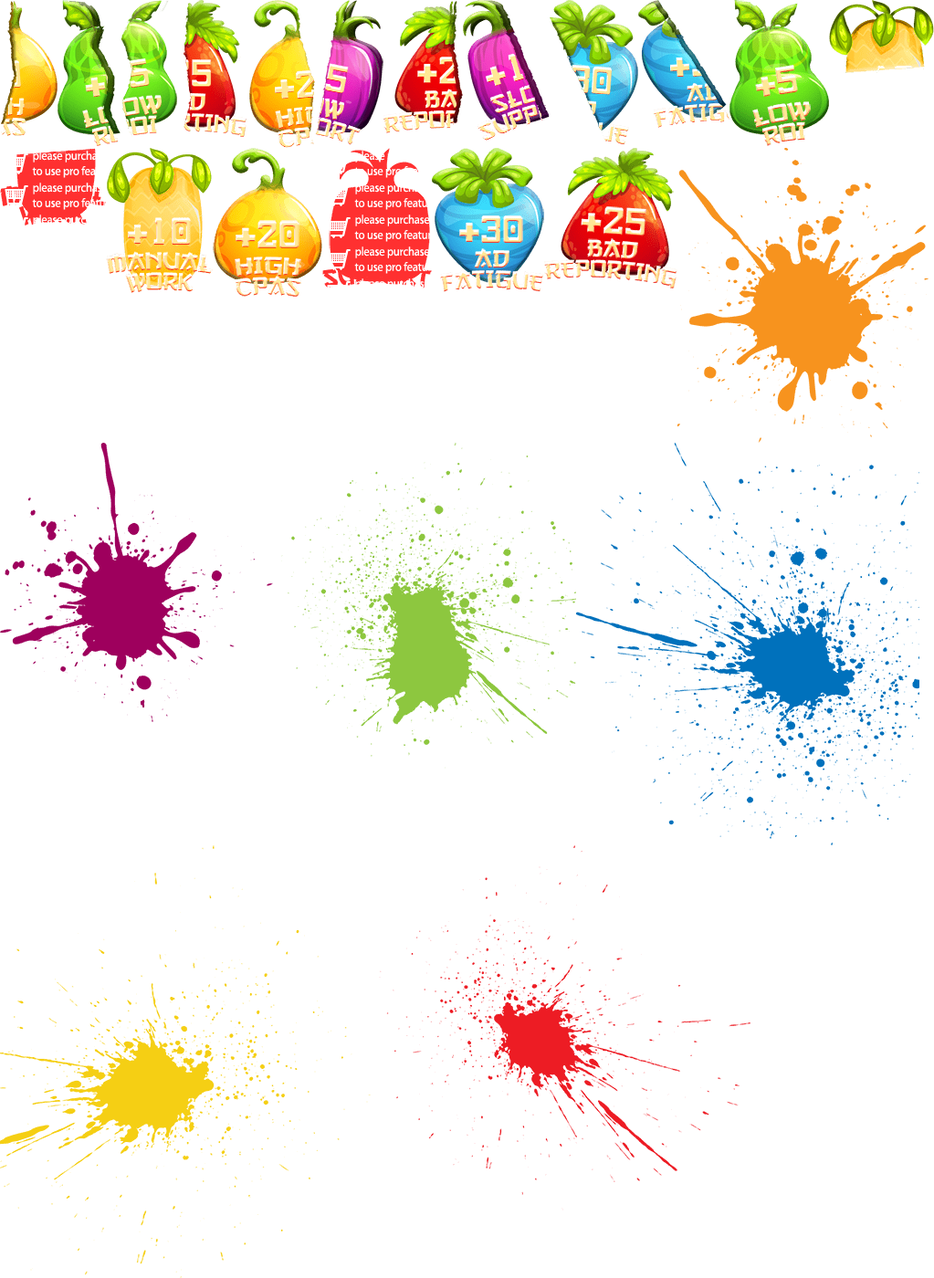
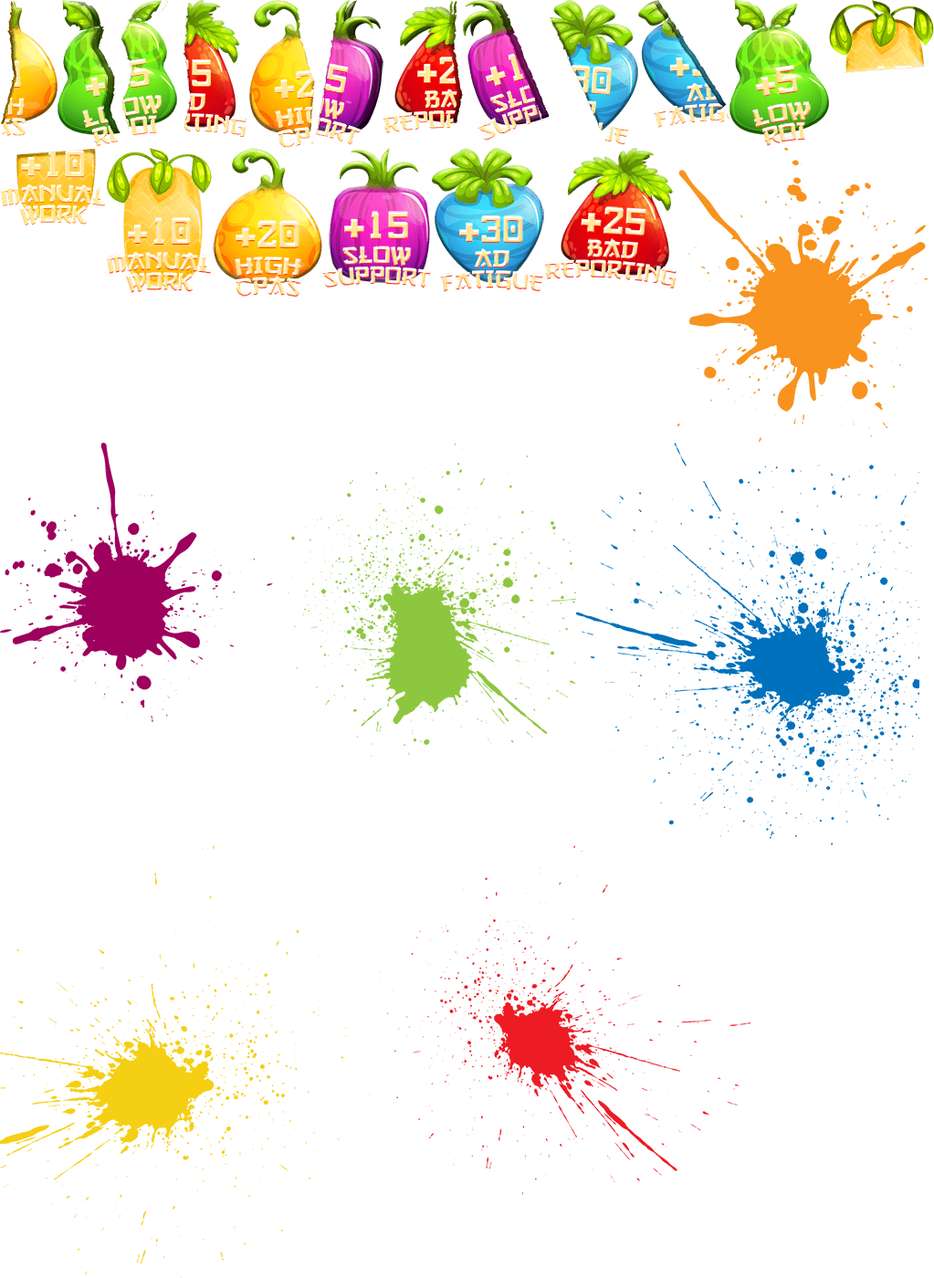
Finished core gameplay

Changed region(s): [[0.3333, 0.1229, 0.4848, 0.2457], [0.0, 0.0921, 0.1212, 0.1843]]

diff --git a/js/tweenjs.min.js b/js/tweenjs.min.js
@@ -1,0 +1,12 @@
+/*!
+* @license TweenJS
+* Visit http://createjs.com/ for documentation, updates and examples.
+*
+* Copyright (c) 2011-2015 gskinner.com, inc.
+*
+* Distributed under the terms of the MIT license.
+* http://www.opensource.org/licenses/mit-license.html
+*
+* This notice shall be included in all copies or substantial portions of the Software.
+*/
+this.createjs=this.createjs||{},createjs.extend=function(a,b){"use strict";function c(){this.constructor=a}return c.prototype=b.prototype,a.prototype=new c},this.createjs=this.createjs||{},createjs.promote=function(a,b){"use strict";var c=a.prototype,d=Object.getPrototypeOf&&Object.getPrototypeOf(c)||c.__proto__;if(d){c[(b+="_")+"constructor"]=d.constructor;for(var e in d)c.hasOwnProperty(e)&&"function"==typeof d[e]&&(c[b+e]=d[e])}return a},this.createjs=this.createjs||{},createjs.deprecate=function(a,b){"use strict";return function(){var c="Deprecated property or method '"+b+"'. See docs for info.";return console&&(console.warn?console.warn(c):console.log(c)),a&&a.apply(this,arguments)}},this.createjs=this.createjs||{},function(){"use strict";function Event(a,b,c){this.type=a,this.target=null,this.currentTarget=null,this.eventPhase=0,this.bubbles=!!b,this.cancelable=!!c,this.timeStamp=(new Date).getTime(),this.defaultPrevented=!1,this.propagationStopped=!1,this.immediatePropagationStopped=!1,this.removed=!1}var a=Event.prototype;a.preventDefault=function(){this.defaultPrevented=this.cancelable&&!0},a.stopPropagation=function(){this.propagationStopped=!0},a.stopImmediatePropagation=function(){this.immediatePropagationStopped=this.propagationStopped=!0},a.remove=function(){this.removed=!0},a.clone=function(){return new Event(this.type,this.bubbles,this.cancelable)},a.set=function(a){for(var b in a)this[b]=a[b];return this},a.toString=function(){return"[Event (type="+this.type+")]"},createjs.Event=Event}(),this.createjs=this.createjs||{},function(){"use strict";function EventDispatcher(){this._listeners=null,this._captureListeners=null}var a=EventDispatcher.prototype;EventDispatcher.initialize=function(b){b.addEventListener=a.addEventListener,b.on=a.on,b.removeEventListener=b.off=a.removeEventListener,b.removeAllEventListeners=a.removeAllEventListeners,b.hasEventListener=a.hasEventListener,b.dispatchEvent=a.dispatchEvent,b._dispatchEvent=a._dispatchEvent,b.willTrigger=a.willTrigger},a.addEventListener=function(a,b,c){var d;d=c?this._captureListeners=this._captureListeners||{}:this._listeners=this._listeners||{};var e=d[a];return e&&this.removeEventListener(a,b,c),e=d[a],e?e.push(b):d[a]=[b],b},a.on=function(a,b,c,d,e,f){return b.handleEvent&&(c=c||b,b=b.handleEvent),c=c||this,this.addEventListener(a,function(a){b.call(c,a,e),d&&a.remove()},f)},a.removeEventListener=function(a,b,c){var d=c?this._captureListeners:this._listeners;if(d){var e=d[a];if(e)for(var f=0,g=e.length;g>f;f++)if(e[f]==b){1==g?delete d[a]:e.splice(f,1);break}}},a.off=a.removeEventListener,a.removeAllEventListeners=function(a){a?(this._listeners&&delete this._listeners[a],this._captureListeners&&delete this._captureListeners[a]):this._listeners=this._captureListeners=null},a.dispatchEvent=function(a,b,c){if("string"==typeof a){var d=this._listeners;if(!(b||d&&d[a]))return!0;a=new createjs.Event(a,b,c)}else a.target&&a.clone&&(a=a.clone());try{a.target=this}catch(e){}if(a.bubbles&&this.parent){for(var f=this,g=[f];f.parent;)g.push(f=f.parent);var h,i=g.length;for(h=i-1;h>=0&&!a.propagationStopped;h--)g[h]._dispatchEvent(a,1+(0==h));for(h=1;i>h&&!a.propagationStopped;h++)g[h]._dispatchEvent(a,3)}else this._dispatchEvent(a,2);return!a.defaultPrevented},a.hasEventListener=function(a){var b=this._listeners,c=this._captureListeners;return!!(b&&b[a]||c&&c[a])},a.willTrigger=function(a){for(var b=this;b;){if(b.hasEventListener(a))return!0;b=b.parent}return!1},a.toString=function(){return"[EventDispatcher]"},a._dispatchEvent=function(a,b){var c,d,e=2>=b?this._captureListeners:this._listeners;if(a&&e&&(d=e[a.type])&&(c=d.length)){try{a.currentTarget=this}catch(f){}try{a.eventPhase=0|b}catch(f){}a.removed=!1,d=d.slice();for(var g=0;c>g&&!a.immediatePropagationStopped;g++){var h=d[g];h.handleEvent?h.handleEvent(a):h(a),a.removed&&(this.off(a.type,h,1==b),a.removed=!1)}}2===b&&this._dispatchEvent(a,2.1)},createjs.EventDispatcher=EventDispatcher}(),this.createjs=this.createjs||{},function(){"use strict";function Ticker(){throw"Ticker cannot be instantiated."}Ticker.RAF_SYNCHED="synched",Ticker.RAF="raf",Ticker.TIMEOUT="timeout",Ticker.timingMode=null,Ticker.maxDelta=0,Ticker.paused=!1,Ticker.removeEventListener=null,Ticker.removeAllEventListeners=null,Ticker.dispatchEvent=null,Ticker.hasEventListener=null,Ticker._listeners=null,createjs.EventDispatcher.initialize(Ticker),Ticker._addEventListener=Ticker.addEventListener,Ticker.addEventListener=function(){return!Ticker._inited&&Ticker.init(),Ticker._addEventListener.apply(Ticker,arguments)},Ticker._inited=!1,Ticker._startTime=0,Ticker._pausedTime=0,Ticker._ticks=0,Ticker._pausedTicks=0,Ticker._interval=50,Ticker._lastTime=0,Ticker._times=null,Ticker._tickTimes=null,Ticker._timerId=null,Ticker._raf=!0,Ticker._setInterval=function(a){Ticker._interval=a,Ticker._inited&&Ticker._setupTick()},Ticker.setInterval=createjs.deprecate(Ticker._setInterval,"Ticker.setInterval"),Ticker._getInterval=function(){return Ticker._interval},Ticker.getInterval=createjs.deprecate(Ticker._getInterval,"Ticker.getInterval"),Ticker._setFPS=function(a){Ticker._setInterval(1e3/a)},Ticker.setFPS=createjs.deprecate(Ticker._setFPS,"Ticker.setFPS"),Ticker._getFPS=function(){return 1e3/Ticker._interval},Ticker.getFPS=createjs.deprecate(Ticker._getFPS,"Ticker.getFPS");try{Object.defineProperties(Ticker,{interval:{get:Ticker._getInterval,set:Ticker._setInterval},framerate:{get:Ticker._getFPS,set:Ticker._setFPS}})}catch(a){console.log(a)}Ticker.init=function(){Ticker._inited||(Ticker._inited=!0,Ticker._times=[],Ticker._tickTimes=[],Ticker._startTime=Ticker._getTime(),Ticker._times.push(Ticker._lastTime=0),Ticker.interval=Ticker._interval)},Ticker.reset=function(){if(Ticker._raf){var a=window.cancelAnimationFrame||window.webkitCancelAnimationFrame||window.mozCancelAnimationFrame||window.oCancelAnimationFrame||window.msCancelAnimationFrame;a&&a(Ticker._timerId)}else clearTimeout(Ticker._timerId);Ticker.removeAllEventListeners("tick"),Ticker._timerId=Ticker._times=Ticker._tickTimes=null,Ticker._startTime=Ticker._lastTime=Ticker._ticks=Ticker._pausedTime=0,Ticker._inited=!1},Ticker.getMeasuredTickTime=function(a){var b=0,c=Ticker._tickTimes;if(!c||c.length<1)return-1;a=Math.min(c.length,a||0|Ticker._getFPS());for(var d=0;a>d;d++)b+=c[d];return b/a},Ticker.getMeasuredFPS=function(a){var b=Ticker._times;return!b||b.length<2?-1:(a=Math.min(b.length-1,a||0|Ticker._getFPS()),1e3/((b[0]-b[a])/a))},Ticker.getTime=function(a){return Ticker._startTime?Ticker._getTime()-(a?Ticker._pausedTime:0):-1},Ticker.getEventTime=function(a){return Ticker._startTime?(Ticker._lastTime||Ticker._startTime)-(a?Ticker._pausedTime:0):-1},Ticker.getTicks=function(a){return Ticker._ticks-(a?Ticker._pausedTicks:0)},Ticker._handleSynch=function(){Ticker._timerId=null,Ticker._setupTick(),Ticker._getTime()-Ticker._lastTime>=.97*(Ticker._interval-1)&&Ticker._tick()},Ticker._handleRAF=function(){Ticker._timerId=null,Ticker._setupTick(),Ticker._tick()},Ticker._handleTimeout=function(){Ticker._timerId=null,Ticker._setupTick(),Ticker._tick()},Ticker._setupTick=function(){if(null==Ticker._timerId){var a=Ticker.timingMode;if(a==Ticker.RAF_SYNCHED||a==Ticker.RAF){var b=window.requestAnimationFrame||window.webkitRequestAnimationFrame||window.mozRequestAnimationFrame||window.oRequestAnimationFrame||window.msRequestAnimationFrame;if(b)return Ticker._timerId=b(a==Ticker.RAF?Ticker._handleRAF:Ticker._handleSynch),void(Ticker._raf=!0)}Ticker._raf=!1,Ticker._timerId=setTimeout(Ticker._handleTimeout,Ticker._interval)}},Ticker._tick=function(){var a=Ticker.paused,b=Ticker._getTime(),c=b-Ticker._lastTime;if(Ticker._lastTime=b,Ticker._ticks++,a&&(Ticker._pausedTicks++,Ticker._pausedTime+=c),Ticker.hasEventListener("tick")){var d=new createjs.Event("tick"),e=Ticker.maxDelta;d.delta=e&&c>e?e:c,d.paused=a,d.time=b,d.runTime=b-Ticker._pausedTime,Ticker.dispatchEvent(d)}for(Ticker._tickTimes.unshift(Ticker._getTime()-b);Ticker._tickTimes.length>100;)Ticker._tickTimes.pop();for(Ticker._times.unshift(b);Ticker._times.length>100;)Ticker._times.pop()};var b=window,c=b.performance.now||b.performance.mozNow||b.performance.msNow||b.performance.oNow||b.performance.webkitNow;Ticker._getTime=function(){return(c&&c.call(b.performance)||(new Date).getTime())-Ticker._startTime},createjs.Ticker=Ticker}(),this.createjs=this.createjs||{},function(){"use strict";function AbstractTween(a){this.EventDispatcher_constructor(),this.ignoreGlobalPause=!1,this.loop=0,this.useTicks=!1,this.reversed=!1,this.bounce=!1,this.timeScale=1,this.duration=0,this.position=0,this.rawPosition=-1,this._paused=!0,this._next=null,this._prev=null,this._parent=null,this._labels=null,this._labelList=null,a&&(this.useTicks=!!a.useTicks,this.ignoreGlobalPause=!!a.ignoreGlobalPause,this.loop=a.loop===!0?-1:a.loop||0,this.reversed=!!a.reversed,this.bounce=!!a.bounce,this.timeScale=a.timeScale||1,a.onChange&&this.addEventListener("change",a.onChange),a.onComplete&&this.addEventListener("complete",a.onComplete))}var a=createjs.extend(AbstractTween,createjs.EventDispatcher);a._setPaused=function(a){return createjs.Tween._register(this,a),this},a.setPaused=createjs.deprecate(a._setPaused,"AbstractTween.setPaused"),a._getPaused=function(){return this._paused},a.getPaused=createjs.deprecate(a._getPaused,"AbstactTween.getPaused"),a._getCurrentLabel=function(a){var b=this.getLabels();null==a&&(a=this.position);for(var c=0,d=b.length;d>c&&!(a<b[c].position);c++);return 0===c?null:b[c-1].label},a.getCurrentLabel=createjs.deprecate(a._getCurrentLabel,"AbstractTween.getCurrentLabel");try{Object.defineProperties(a,{paused:{set:a._setPaused,get:a._getPaused},currentLabel:{get:a._getCurrentLabel}})}catch(b){}a.advance=function(a,b){this.setPosition(this.rawPosition+a*this.timeScale,b)},a.setPosition=function(a,b,c,d){var e=this.duration,f=this.loop,g=this.rawPosition,h=0,i=0,j=!1;if(0>a&&(a=0),0===e){if(j=!0,-1!==g)return j}else{if(h=a/e|0,i=a-h*e,j=-1!==f&&a>=f*e+e,j&&(a=(i=e)*(h=f)+e),a===g)return j;var k=!this.reversed!=!(this.bounce&&h%2);k&&(i=e-i)}this.position=i,this.rawPosition=a,this._updatePosition(c,j),j&&(this.paused=!0),d&&d(this),b||this._runActions(g,a,c,!c&&-1===g),this.dispatchEvent("change"),j&&this.dispatchEvent("complete")},a.calculatePosition=function(a){var b=this.duration,c=this.loop,d=0,e=0;if(0===b)return 0;-1!==c&&a>=c*b+b?(e=b,d=c):0>a?e=0:(d=a/b|0,e=a-d*b);var f=!this.reversed!=!(this.bounce&&d%2);return f?b-e:e},a.getLabels=function(){var a=this._labelList;if(!a){a=this._labelList=[];var b=this._labels;for(var c in b)a.push({label:c,position:b[c]});a.sort(function(a,b){return a.position-b.position})}return a},a.setLabels=function(a){this._labels=a,this._labelList=null},a.addLabel=function(a,b){this._labels||(this._labels={}),this._labels[a]=b;var c=this._labelList;if(c){for(var d=0,e=c.length;e>d&&!(b<c[d].position);d++);c.splice(d,0,{label:a,position:b})}},a.gotoAndPlay=function(a){this.paused=!1,this._goto(a)},a.gotoAndStop=function(a){this.paused=!0,this._goto(a)},a.resolve=function(a){var b=Number(a);return isNaN(b)&&(b=this._labels&&this._labels[a]),b},a.toString=function(){return"[AbstractTween]"},a.clone=function(){throw"AbstractTween can not be cloned."},a._init=function(a){a&&a.paused||(this.paused=!1),a&&null!=a.position&&this.setPosition(a.position)},a._updatePosition=function(){},a._goto=function(a){var b=this.resolve(a);null!=b&&this.setPosition(b,!1,!0)},a._runActions=function(a,b,c,d){if(this._actionHead||this.tweens){var e,f,g,h,i=this.duration,j=this.reversed,k=this.bounce,l=this.loop;if(0===i?(e=f=g=h=0,j=k=!1):(e=a/i|0,f=b/i|0,g=a-e*i,h=b-f*i),-1!==l&&(f>l&&(h=i,f=l),e>l&&(g=i,e=l)),c)return this._runActionsRange(h,h,c,d);if(e!==f||g!==h||c||d){-1===e&&(e=g=0);var m=b>=a,n=e;do{var o=!j!=!(k&&n%2),p=n===e?g:m?0:i,q=n===f?h:m?i:0;if(o&&(p=i-p,q=i-q),k&&n!==e&&p===q);else if(this._runActionsRange(p,q,c,d||n!==e&&!k))return!0;d=!1}while(m&&++n<=f||!m&&--n>=f)}}},a._runActionsRange=function(){},createjs.AbstractTween=createjs.promote(AbstractTween,"EventDispatcher")}(),this.createjs=this.createjs||{},function(){"use strict";function Tween(b,c){this.AbstractTween_constructor(c),this.pluginData=null,this.target=b,this.passive=!1,this._stepHead=new a(null,0,0,{},null,!0),this._stepTail=this._stepHead,this._stepPosition=0,this._actionHead=null,this._actionTail=null,this._plugins=null,this._pluginIds=null,this._injected=null,c&&(this.pluginData=c.pluginData,c.override&&Tween.removeTweens(b)),this.pluginData||(this.pluginData={}),this._init(c)}function a(a,b,c,d,e,f){this.next=null,this.prev=a,this.t=b,this.d=c,this.props=d,this.ease=e,this.passive=f,this.index=a?a.index+1:0}function b(a,b,c,d,e){this.next=null,this.prev=a,this.t=b,this.d=0,this.scope=c,this.funct=d,this.params=e}var c=createjs.extend(Tween,createjs.AbstractTween);Tween.IGNORE={},Tween._tweens=[],Tween._plugins=null,Tween._tweenHead=null,Tween._tweenTail=null,Tween.get=function(a,b){return new Tween(a,b)},Tween.tick=function(a,b){for(var c=Tween._tweenHead;c;){var d=c._next;b&&!c.ignoreGlobalPause||c._paused||c.advance(c.useTicks?1:a),c=d}},Tween.handleEvent=function(a){"tick"===a.type&&this.tick(a.delta,a.paused)},Tween.removeTweens=function(a){if(a.tweenjs_count){for(var b=Tween._tweenHead;b;){var c=b._next;b.target===a&&Tween._register(b,!0),b=c}a.tweenjs_count=0}},Tween.removeAllTweens=function(){for(var a=Tween._tweenHead;a;){var b=a._next;a._paused=!0,a.target&&(a.target.tweenjs_count=0),a._next=a._prev=null,a=b}Tween._tweenHead=Tween._tweenTail=null},Tween.hasActiveTweens=function(a){return a?!!a.tweenjs_count:!!Tween._tweenHead},Tween._installPlugin=function(a){for(var b=a.priority=a.priority||0,c=Tween._plugins=Tween._plugins||[],d=0,e=c.length;e>d&&!(b<c[d].priority);d++);c.splice(d,0,a)},Tween._register=function(a,b){var c=a.target;if(!b&&a._paused){c&&(c.tweenjs_count=c.tweenjs_count?c.tweenjs_count+1:1);var d=Tween._tweenTail;d?(Tween._tweenTail=d._next=a,a._prev=d):Tween._tweenHead=Tween._tweenTail=a,!Tween._inited&&createjs.Ticker&&(createjs.Ticker.addEventListener("tick",Tween),Tween._inited=!0)}else if(b&&!a._paused){c&&c.tweenjs_count--;var e=a._next,f=a._prev;e?e._prev=f:Tween._tweenTail=f,f?f._next=e:Tween._tweenHead=e,a._next=a._prev=null}a._paused=b},c.wait=function(a,b){return a>0&&this._addStep(+a,this._stepTail.props,null,b),this},c.to=function(a,b,c){(null==b||0>b)&&(b=0);var d=this._addStep(+b,null,c);return this._appendProps(a,d),this},c.label=function(a){return this.addLabel(a,this.duration),this},c.call=function(a,b,c){return this._addAction(c||this.target,a,b||[this])},c.set=function(a,b){return this._addAction(b||this.target,this._set,[a])},c.play=function(a){return this._addAction(a||this,this._set,[{paused:!1}])},c.pause=function(a){return this._addAction(a||this,this._set,[{paused:!0}])},c.w=c.wait,c.t=c.to,c.c=c.call,c.s=c.set,c.toString=function(){return"[Tween]"},c.clone=function(){throw"Tween can not be cloned."},c._addPlugin=function(a){var b=this._pluginIds||(this._pluginIds={}),c=a.ID;if(c&&!b[c]){b[c]=!0;for(var d=this._plugins||(this._plugins=[]),e=a.priority||0,f=0,g=d.length;g>f;f++)if(e<d[f].priority)return void d.splice(f,0,a);d.push(a)}},c._updatePosition=function(a,b){var c=this._stepHead.next,d=this.position,e=this.duration;if(this.target&&c){for(var f=c.next;f&&f.t<=d;)c=c.next,f=c.next;var g=b?0===e?1:d/e:(d-c.t)/c.d;this._updateTargetProps(c,g,b)}this._stepPosition=c?d-c.t:0},c._updateTargetProps=function(a,b,c){if(!(this.passive=!!a.passive)){var d,e,f,g,h=a.prev.props,i=a.props;(g=a.ease)&&(b=g(b,0,1,1));var j=this._plugins;a:for(var k in h){if(e=h[k],f=i[k],d=e!==f&&"number"==typeof e?e+(f-e)*b:b>=1?f:e,j)for(var l=0,m=j.length;m>l;l++){var n=j[l].change(this,a,k,d,b,c);if(n===Tween.IGNORE)continue a;void 0!==n&&(d=n)}this.target[k]=d}}},c._runActionsRange=function(a,b,c,d){var e=a>b,f=e?this._actionTail:this._actionHead,g=b,h=a;e&&(g=a,h=b);for(var i=this.position;f;){var j=f.t;if((j===b||j>h&&g>j||d&&j===a)&&(f.funct.apply(f.scope,f.params),i!==this.position))return!0;f=e?f.prev:f.next}},c._appendProps=function(a,b,c){var d,e,f,g,h,i=this._stepHead.props,j=this.target,k=Tween._plugins,l=b.prev,m=l.props,n=b.props||(b.props=this._cloneProps(m)),o={};for(d in a)if(a.hasOwnProperty(d)&&(o[d]=n[d]=a[d],void 0===i[d])){if(g=void 0,k)for(e=k.length-1;e>=0;e--)if(f=k[e].init(this,d,g),void 0!==f&&(g=f),g===Tween.IGNORE){delete n[d],delete o[d];break}g!==Tween.IGNORE&&(void 0===g&&(g=j[d]),m[d]=void 0===g?null:g)}for(d in o){f=a[d];for(var p,q=l;(p=q)&&(q=p.prev);)if(q.props!==p.props){if(void 0!==q.props[d])break;q.props[d]=m[d]}}if(c!==!1&&(k=this._plugins))for(e=k.length-1;e>=0;e--)k[e].step(this,b,o);(h=this._injected)&&(this._injected=null,this._appendProps(h,b,!1))},c._injectProp=function(a,b){var c=this._injected||(this._injected={});c[a]=b},c._addStep=function(b,c,d,e){var f=new a(this._stepTail,this.duration,b,c,d,e||!1);return this.duration+=b,this._stepTail=this._stepTail.next=f},c._addAction=function(a,c,d){var e=new b(this._actionTail,this.duration,a,c,d);return this._actionTail?this._actionTail.next=e:this._actionHead=e,this._actionTail=e,this},c._set=function(a){for(var b in a)this[b]=a[b]},c._cloneProps=function(a){var b={};for(var c in a)b[c]=a[c];return b},createjs.Tween=createjs.promote(Tween,"AbstractTween")}(),this.createjs=this.createjs||{},function(){"use strict";function Timeline(a){var b,c;a instanceof Array||null==a&&arguments.length>1?(b=a,c=arguments[1],a=arguments[2]):a&&(b=a.tweens,c=a.labels),this.AbstractTween_constructor(a),this.tweens=[],b&&this.addTween.apply(this,b),this.setLabels(c),this._init(a)}var a=createjs.extend(Timeline,createjs.AbstractTween);a.addTween=function(a){a._parent&&a._parent.removeTween(a);var b=arguments.length;if(b>1){for(var c=0;b>c;c++)this.addTween(arguments[c]);return arguments[b-1]}if(0===b)return null;this.tweens.push(a),a._parent=this,a.paused=!0;var d=a.duration;return a.loop>0&&(d*=a.loop+1),d>this.duration&&(this.duration=d),this.rawPosition>=0&&a.setPosition(this.rawPosition),a},a.removeTween=function(a){var b=arguments.length;if(b>1){for(var c=!0,d=0;b>d;d++)c=c&&this.removeTween(arguments[d]);return c}if(0===b)return!0;for(var e=this.tweens,d=e.length;d--;)if(e[d]===a)return e.splice(d,1),a._parent=null,a.duration>=this.duration&&this.updateDuration(),!0;return!1},a.updateDuration=function(){this.duration=0;for(var a=0,b=this.tweens.length;b>a;a++){var c=this.tweens[a],d=c.duration;c.loop>0&&(d*=c.loop+1),d>this.duration&&(this.duration=d)}},a.toString=function(){return"[Timeline]"},a.clone=function(){throw"Timeline can not be cloned."},a._updatePosition=function(a){for(var b=this.position,c=0,d=this.tweens.length;d>c;c++)this.tweens[c].setPosition(b,!0,a)},a._runActionsRange=function(a,b,c,d){for(var e=this.position,f=0,g=this.tweens.length;g>f;f++)if(this.tweens[f]._runActions(a,b,c,d),e!==this.position)return!0},createjs.Timeline=createjs.promote(Timeline,"AbstractTween")}(),this.createjs=this.createjs||{},function(){"use strict";function Ease(){throw"Ease cannot be instantiated."}Ease.linear=function(a){return a},Ease.none=Ease.linear,Ease.get=function(a){return-1>a?a=-1:a>1&&(a=1),function(b){return 0==a?b:0>a?b*(b*-a+1+a):b*((2-b)*a+(1-a))}},Ease.getPowIn=function(a){return function(b){return Math.pow(b,a)}},Ease.getPowOut=function(a){return function(b){return 1-Math.pow(1-b,a)}},Ease.getPowInOut=function(a){return function(b){return(b*=2)<1?.5*Math.pow(b,a):1-.5*Math.abs(Math.pow(2-b,a))}},Ease.quadIn=Ease.getPowIn(2),Ease.quadOut=Ease.getPowOut(2),Ease.quadInOut=Ease.getPowInOut(2),Ease.cubicIn=Ease.getPowIn(3),Ease.cubicOut=Ease.getPowOut(3),Ease.cubicInOut=Ease.getPowInOut(3),Ease.quartIn=Ease.getPowIn(4),Ease.quartOut=Ease.getPowOut(4),Ease.quartInOut=Ease.getPowInOut(4),Ease.quintIn=Ease.getPowIn(5),Ease.quintOut=Ease.getPowOut(5),Ease.quintInOut=Ease.getPowInOut(5),Ease.sineIn=function(a){return 1-Math.cos(a*Math.PI/2)},Ease.sineOut=function(a){return Math.sin(a*Math.PI/2)},Ease.sineInOut=function(a){return-.5*(Math.cos(Math.PI*a)-1)},Ease.getBackIn=function(a){return function(b){return b*b*((a+1)*b-a)}},Ease.backIn=Ease.getBackIn(1.7),Ease.getBackOut=function(a){return function(b){return--b*b*((a+1)*b+a)+1}},Ease.backOut=Ease.getBackOut(1.7),Ease.getBackInOut=function(a){return a*=1.525,function(b){return(b*=2)<1?.5*b*b*((a+1)*b-a):.5*((b-=2)*b*((a+1)*b+a)+2)}},Ease.backInOut=Ease.getBackInOut(1.7),Ease.circIn=function(a){return-(Math.sqrt(1-a*a)-1)},Ease.circOut=function(a){return Math.sqrt(1- --a*a)},Ease.circInOut=function(a){return(a*=2)<1?-.5*(Math.sqrt(1-a*a)-1):.5*(Math.sqrt(1-(a-=2)*a)+1)},Ease.bounceIn=function(a){return 1-Ease.bounceOut(1-a)},Ease.bounceOut=function(a){return 1/2.75>a?7.5625*a*a:2/2.75>a?7.5625*(a-=1.5/2.75)*a+.75:2.5/2.75>a?7.5625*(a-=2.25/2.75)*a+.9375:7.5625*(a-=2.625/2.75)*a+.984375},Ease.bounceInOut=function(a){return.5>a?.5*Ease.bounceIn(2*a):.5*Ease.bounceOut(2*a-1)+.5},Ease.getElasticIn=function(a,b){var c=2*Math.PI;return function(d){if(0==d||1==d)return d;var e=b/c*Math.asin(1/a);return-(a*Math.pow(2,10*(d-=1))*Math.sin((d-e)*c/b))}},Ease.elasticIn=Ease.getElasticIn(1,.3),Ease.getElasticOut=function(a,b){var c=2*Math.PI;return function(d){if(0==d||1==d)return d;var e=b/c*Math.asin(1/a);return a*Math.pow(2,-10*d)*Math.sin((d-e)*c/b)+1}},Ease.elasticOut=Ease.getElasticOut(1,.3),Ease.getElasticInOut=function(a,b){var c=2*Math.PI;return function(d){var e=b/c*Math.asin(1/a);return(d*=2)<1?-.5*a*Math.pow(2,10*(d-=1))*Math.sin((d-e)*c/b):a*Math.pow(2,-10*(d-=1))*Math.sin((d-e)*c/b)*.5+1}},Ease.elasticInOut=Ease.getElasticInOut(1,.3*1.5),createjs.Ease=Ease}(),this.createjs=this.createjs||{},function(){"use strict";function MotionGuidePlugin(){throw"MotionGuidePlugin cannot be instantiated."}var a=MotionGuidePlugin;a.priority=0,a.ID="MotionGuide",a.install=function(){return createjs.Tween._installPlugin(MotionGuidePlugin),createjs.Tween.IGNORE},a.init=function(b,c){"guide"==c&&b._addPlugin(a)},a.step=function(b,c,d){for(var e in d)if("guide"===e){var f=c.props.guide,g=a._solveGuideData(d.guide,f);f.valid=!g;var h=f.endData;if(b._injectProp("x",h.x),b._injectProp("y",h.y),g||!f.orient)break;var i=void 0===c.prev.props.rotation?b.target.rotation||0:c.prev.props.rotation;if(f.startOffsetRot=i-f.startData.rotation,"fixed"==f.orient)f.endAbsRot=h.rotation+f.startOffsetRot,f.deltaRotation=0;else{var j=void 0===d.rotation?b.target.rotation||0:d.rotation,k=j-f.endData.rotation-f.startOffsetRot,l=k%360;switch(f.endAbsRot=j,f.orient){case"auto":f.deltaRotation=k;break;case"cw":f.deltaRotation=(l+360)%360+360*Math.abs(k/360|0);break;case"ccw":f.deltaRotation=(l-360)%360+-360*Math.abs(k/360|0)}}b._injectProp("rotation",f.endAbsRot)}},a.change=function(b,c,d,e,f){var g=c.props.guide;if(g&&c.props!==c.prev.props&&g!==c.prev.props.guide)return"guide"===d&&!g.valid||"x"==d||"y"==d||"rotation"===d&&g.orient?createjs.Tween.IGNORE:void a._ratioToPositionData(f,g,b.target)},a.debug=function(b,c,d){b=b.guide||b;var e=a._findPathProblems(b);if(e&&console.error("MotionGuidePlugin Error found: \n"+e),!c)return e;var f,g=b.path,h=g.length,i=3,j=9;for(c.save(),c.lineCap="round",c.lineJoin="miter",c.beginPath(),c.moveTo(g[0],g[1]),f=2;h>f;f+=4)c.quadraticCurveTo(g[f],g[f+1],g[f+2],g[f+3]);c.strokeStyle="black",c.lineWidth=1.5*i,c.stroke(),c.strokeStyle="white",c.lineWidth=i,c.stroke(),c.closePath();var k=d.length;if(d&&k){var l={},m={};a._solveGuideData(b,l);for(var f=0;k>f;f++)l.orient="fixed",a._ratioToPositionData(d[f],l,m),c.beginPath(),c.moveTo(m.x,m.y),c.lineTo(m.x+Math.cos(.0174533*m.rotation)*j,m.y+Math.sin(.0174533*m.rotation)*j),c.strokeStyle="black",c.lineWidth=1.5*i,c.stroke(),c.strokeStyle="red",c.lineWidth=i,c.stroke(),c.closePath()}return c.restore(),e},a._solveGuideData=function(b,c){var d=void 0;if(d=a.debug(b))return d;{var e=c.path=b.path;c.orient=b.orient}c.subLines=[],c.totalLength=0,c.startOffsetRot=0,c.deltaRotation=0,c.startData={ratio:0},c.endData={ratio:1},c.animSpan=1;var f,g,h,i,j,k,l,m,n,o=e.length,p=10,q={};for(f=e[0],g=e[1],l=2;o>l;l+=4){h=e[l],i=e[l+1],j=e[l+2],k=e[l+3];var r={weightings:[],estLength:0,portion:0},s=f,t=g;for(m=1;p>=m;m++){a._getParamsForCurve(f,g,h,i,j,k,m/p,!1,q);var u=q.x-s,v=q.y-t;n=Math.sqrt(u*u+v*v),r.weightings.push(n),r.estLength+=n,s=q.x,t=q.y}for(c.totalLength+=r.estLength,m=0;p>m;m++)n=r.estLength,r.weightings[m]=r.weightings[m]/n;c.subLines.push(r),f=j,g=k}n=c.totalLength;var w=c.subLines.length;for(l=0;w>l;l++)c.subLines[l].portion=c.subLines[l].estLength/n;var x=isNaN(b.start)?0:b.start,y=isNaN(b.end)?1:b.end;a._ratioToPositionData(x,c,c.startData),a._ratioToPositionData(y,c,c.endData),c.startData.ratio=x,c.endData.ratio=y,c.animSpan=c.endData.ratio-c.startData.ratio},a._ratioToPositionData=function(b,c,d){var e,f,g,h,i,j=c.subLines,k=0,l=10,m=b*c.animSpan+c.startData.ratio;for(f=j.length,e=0;f>e;e++){if(h=j[e].portion,k+h>=m){i=e;break}k+=h}void 0===i&&(i=f-1,k-=h);var n=j[i].weightings,o=h;for(f=n.length,e=0;f>e&&(h=n[e]*o,!(k+h>=m));e++)k+=h;i=4*i+2,g=e/l+(m-k)/h*(1/l);var p=c.path;return a._getParamsForCurve(p[i-2],p[i-1],p[i],p[i+1],p[i+2],p[i+3],g,c.orient,d),c.orient&&(b>=.99999&&1.00001>=b&&void 0!==c.endAbsRot?d.rotation=c.endAbsRot:d.rotation+=c.startOffsetRot+b*c.deltaRotation),d},a._getParamsForCurve=function(a,b,c,d,e,f,g,h,i){var j=1-g;i.x=j*j*a+2*j*g*c+g*g*e,i.y=j*j*b+2*j*g*d+g*g*f,h&&(i.rotation=57.2957795*Math.atan2((d-b)*j+(f-d)*g,(c-a)*j+(e-c)*g))},a._findPathProblems=function(a){var b=a.path,c=b&&b.length||0;if(6>c||(c-2)%4){var d="	Cannot parse 'path' array due to invalid number of entries in path. ";return d+="There should be an odd number of points, at least 3 points, and 2 entries per point (x & y). ",d+="See 'CanvasRenderingContext2D.quadraticCurveTo' for details as 'path' models a quadratic bezier.\n\n",d+="Only [ "+c+" ] values found. Expected: "+Math.max(4*Math.ceil((c-2)/4)+2,6)}for(var e=0;c>e;e++)if(isNaN(b[e]))return"All data in path array must be numeric";var f=a.start;if(isNaN(f)&&void 0!==f)return"'start' out of bounds. Expected 0 to 1, got: "+f;var g=a.end;if(isNaN(g)&&void 0!==g)return"'end' out of bounds. Expected 0 to 1, got: "+g;var h=a.orient;return h&&"fixed"!=h&&"auto"!=h&&"cw"!=h&&"ccw"!=h?'Invalid orientation value. Expected ["fixed", "auto", "cw", "ccw", undefined], got: '+h:void 0},createjs.MotionGuidePlugin=MotionGuidePlugin}(),this.createjs=this.createjs||{},function(){"use strict";var a=createjs.TweenJS=createjs.TweenJS||{};a.version="1.0.0",a.buildDate="Thu, 14 Sep 2017 19:47:47 GMT"}();

diff --git a/js/gameScene.js b/js/gameScene.js
@@ -1,0 +1,110 @@
+
+class GameScene
+{
+    constructor()
+    {
+        this.gameStage = new PIXI.Container();
+        this.gameStage.interactive = true;
+        this.gameStage.hitArea = app.screen;
+        GameContainer.addChild(this.gameStage);
+
+        this.minSpawnInterval = 2;
+        this.maxSpawnInterval = 2.5;
+        this.spawnInterval = this.minSpawnInterval;
+        this.gameTimer = 59;
+        this.spawnSeconds = 0;
+
+        this.touchStart = {x: 0, y:0};
+        this.touchEnd = {x:0, y:0};
+
+        this.isGameOver = false;
+
+        this.scoreText = new PIXI.Text('0', menuTextStyle);
+        this.scoreText.position.set(10, 10);
+        this.scoreText.scale.set(2, 2);
+        this.score = 0;
+        this.gameStage.addChild(this.scoreText);
+
+        this.timerText = new PIXI.Text('0:' + this.gameTimer, menuTextStyle);
+        this.timerText.scale.set(2, 2);
+        this.timerText.position.set(window.innerWidth - this.timerText.width - 10, 10);
+        this.gameStage.addChild(this.timerText);
+
+        
+        app.ticker.add((delta) => { this.Update(delta); });
+    }
+
+    spawnFruit()
+    {
+        this.spawnSeconds = 0;
+        if(this.gameTimer < 15)
+        {
+            this.minSpawnInterval = 0.5;
+            this.maxSpawnInterval = 0.75;
+        }
+        else if(this.gameTimer < 30)
+        {
+            this.minSpawnInterval = 0.75;
+            this.maxSpawnInterval = 1.15;
+        }
+
+        this.spawnInterval = (Math.random() * (this.maxSpawnInterval - this.minSpawnInterval) + this.minSpawnInterval).toFixed(2);
+        var fruitSpawned = new Fruit(this.gameStage);
+    }
+
+    addScore(scoreVal)
+    {
+        this.score += scoreVal;
+        this.scoreText.text = this.score;
+    }
+
+    updateTimerText()
+    {
+        var secondsLeft = Math.floor(this.gameTimer);
+        var secondsString = secondsLeft.toString();
+        var leadingString = secondsString.length < 2 ? '0:0' : '0:';
+        this.timerText.text = leadingString + Math.floor(this.gameTimer);
+    }
+
+    showGameOver()
+    {
+        console.log("Game Over");
+        this.isGameOver = true;
+
+        var gameOverPanel = PIXI.Sprite.from(PIXI.Assets.get('BoardTexture'));
+        gameOverPanel.anchor.set(0.5, 0.5);
+        gameOverPanel.width = window.innerWidth * 0.75;
+        gameOverPanel.height = window.innerHeight * 0.5;
+        gameOverPanel.position.set(window.innerWidth/2, window.innerHeight/2);
+        this.gameStage.addChild(gameOverPanel);
+
+        var finalScoreText = new PIXI.Text('Game Over!\nYour final score:\n' + this.score, menuTextStyle);
+        finalScoreText.anchor.set(0.5, 0.5);
+        finalScoreText.position.set(gameOverPanel.x, gameOverPanel.y);
+        this.gameStage.addChild(finalScoreText);
+    }
+
+    Update(delta)
+    {
+        if(this.isGameOver)
+        {
+            return;
+        }
+
+        this.spawnSeconds += 1/app.ticker.FPS * delta;
+        this.gameTimer -= 1/app.ticker.FPS * delta;
+
+        if(this.gameTimer < 0)
+        {
+            this.gameTimer = 0;
+            this.showGameOver();
+        }
+
+        this.updateTimerText();
+
+        if(this.spawnSeconds >= this.spawnInterval && this.gameTimer > 0)
+        {
+            this.spawnFruit();
+        }
+    }
+}

diff --git a/js/fruit.js b/js/fruit.js
@@ -1,0 +1,77 @@
+const FRUIT_TYPE_COUNT = 6;
+
+const COLOR_INDEX = ["blue", "green", "orange", "purple", "red", "yellow"];
+const FRUIT_VALUE = [30, 5, 20, 15, 25, 10];
+
+const GRAVITY_VALUE = 10;
+
+class Fruit
+{
+    constructor(gameStage)
+    {
+        this.fruitType = Math.floor(Math.random() * FRUIT_TYPE_COUNT);
+        this.fruitSprite = PIXI.Sprite.from(PIXI.Texture.from('game_fruit_' + COLOR_INDEX[this.fruitType] + '.png'));
+        this.fruitSprite.anchor.set(0.5, 0.5);
+        this.fruitSprite.scale.set(0.75, 0.75);
+        this.scoreValue = FRUIT_VALUE[this.fruitType];
+        this.isSliced = false;
+        
+        this.leftSprite = PIXI.Sprite.from(PIXI.Texture.from('game_fruit_' + COLOR_INDEX[this.fruitType] + '_l.png'));
+        this.rightSprite = PIXI.Sprite.from(PIXI.Texture.from('game_fruit_' + COLOR_INDEX[this.fruitType] + '_r.png'));
+        this.leftSprite.anchor.set(1, 0.5);
+        this.rightSprite.anchor.set(0, 0.5);
+        this.leftSprite.scale.set(0.75, 0.75);
+        this.rightSprite.scale.set(0.75, 0.75)
+        this.leftSprite.visible = false;
+        this.rightSprite.visible = false;
+        
+        gameStage.addChild(this.leftSprite);
+        gameStage.addChild(this.rightSprite);
+
+        var isLeftSpawn = this.randomRange(0, 100) > 49;
+        var horizontalTargetPos = isLeftSpawn ? window.innerWidth + 300 : -300;
+
+        this.fruitSprite.x = isLeftSpawn ? 0 : window.innerWidth;
+        this.fruitSprite.y = window.innerHeight + 200;
+        gameStage.addChild(this.fruitSprite);
+
+        createjs.Tween.get(this.fruitSprite.position).to({y: 200}, 1200, createjs.Ease.sineOut)
+        .to({y:window.innerHeight + 200}, 1200, createjs.Ease.sineIn);
+
+        createjs.Tween.get(this.fruitSprite.position).to({x: horizontalTargetPos}, 2400, createjs.Ease.sineIn);
+
+        createjs.Tween.get(this.fruitSprite).to({angle:this.randomRange(-180, 180)}, 3000, createjs.Ease.sineIn);
+
+        this.fruitSprite.interactive = true;
+        this.fruitSprite.cursor = 'pointer';
+        this.fruitSprite.addListener('touchmove', ()=>{this.onFruitSlice();});
+    }
+
+
+    randomRange(min, max)
+    {
+        return Math.random() * (max - min) + min;
+    }
+
+    onFruitSlice()
+    {
+        if(this.isSliced)
+        {
+            return;
+        }
+
+        gameScene.addScore(this.scoreValue);
+        this.isSliced = true;
+        this.fruitSprite.visible = false;
+        this.leftSprite.position = this.fruitSprite.position;
+        this.rightSprite.position = this.fruitSprite.position;
+        this.leftSprite.visible = true;
+        this.rightSprite.visible = true;
+
+        createjs.Tween.get(this.leftSprite.position).to({y:window.innerHeight+200}, 900, createjs.Ease.backIn);
+        createjs.Tween.get(this.rightSprite.position).to({y:window.innerHeight+200}, 800, createjs.Ease.backIn);
+
+        createjs.Tween.get(this.leftSprite).to({angle:-180}, this.randomRange(1600, 2500), createjs.Ease.sineIn);
+        createjs.Tween.get(this.rightSprite).to({angle:180}, this.randomRange(1600, 2500), createjs.Ease.sineIn);
+    }
+}

diff --git a/js/init.js b/js/init.js
@@ -1,15 +1,30 @@
-let app;
+var app;
+var renderer;
+var loader;
 
-window.onload = function()
-{
-    app = new PIXI.Application(
-        {
-            width:800,
-            height:600,
-            backgroundColor: 0xAAAAAA
-        }
-    )
+app = new PIXI.Application(
+    {
+        width:window.innerWidth,
+        height:window.innerHeight,
+        backgroundColor: 0xAAAAAA,
+        autoResize:true
+    }
+)
+app.resizeTo = window;
+renderer = PIXI.autoDetectRenderer(window.innerWidth, window.innerHeight);
 
-    document.body.appendChild(app.view);
-}
+createjs.Ticker.setFPS(app.ticker.FPS);
+
+PIXI.Assets.add('FruitsTexture', 'assets/GameFruits.png');
+PIXI.Assets.add('FruitsData', 'assets/GameFruits.json');
+PIXI.Assets.add('BoardTexture', 'assets/board.png');
+PIXI.Assets.add('GameBG', 'assets/game_bg.jpg');
+
+const assetLoadPromise = PIXI.Assets.load(['FruitsTexture', 'FruitsData', 'BoardTexture', 'GameBG']);
+
+assetLoadPromise.then(()=> {
+    loadMenu();
+});
+
+document.body.appendChild(app.view);
 

diff --git a/js/menu.js b/js/menu.js
@@ -1,0 +1,44 @@
+var GameContainer = new PIXI.Container();
+
+app.stage.addChild(GameContainer);
+
+var gameBG;
+
+var titleText;
+
+var playButton;
+
+function loadMenu()
+{
+    gameBG = PIXI.Sprite.from(PIXI.Assets.get('GameBG'));
+    gameBG.width = window.innerWidth;
+    gameBG.height = window.innerHeight;
+    GameContainer.addChild(gameBG);
+
+    titleText = new PIXI.Text('Produce Shinobi', menuTextStyle);
+    titleText.anchor.set(0.5, 0.5);
+    titleText.x = window.innerWidth/2;
+    titleText.y = window.innerHeight/2;
+    GameContainer.addChild(titleText);
+
+    playButton = new UIButton("PLAY", window.innerWidth/2, window.innerHeight/2 + 100, 100, 50, 0x33FF33, 0x000000, onPlayClick);
+    GameContainer.addChild(playButton.buttonGraphic);
+}
+
+function hideMenu()
+{
+    titleText.visible = false;
+    playButton.buttonGraphic.visible = false;
+    playButton.buttonText.visible = false;
+}
+
+var gameScene;
+
+function onPlayClick()
+{
+    hideMenu();
+
+    gameScene = new GameScene();
+}
+
+

diff --git a/js/textInit.js b/js/textInit.js
@@ -1,0 +1,32 @@
+var menuTextStyle = new PIXI.TextStyle({
+    fontFamily: 'Montserrat',
+    fontSize: 24,
+    fill: 0xFFFFFF,
+    stroke: 0x000000,
+    strokeThickness: 3,
+    align: 'center'
+});
+
+class UIButton
+{
+    constructor(buttonText, x,y, width, height, fillColor, strokeColor, callbackFunc)
+    {
+        this.buttonGraphic = new PIXI.Graphics();
+        this.buttonGraphic.beginFill(fillColor)
+        .lineStyle(3, strokeColor)
+        .drawRect(x - width/2, y - width/2, width, height)
+        .endFill();
+
+        this.buttonGraphic.interactive = true;
+        this.buttonGraphic.cursor = 'pointer';
+        this.buttonGraphic.addListener('pointerdown', callbackFunc);
+
+        this.buttonText = new PIXI.Text(buttonText, menuTextStyle);
+        this.buttonText.anchor.set(0.5, 0.5);
+        this.buttonText.x = x;
+        this.buttonText.y = y - this.buttonText.height * 0.8;
+        this.buttonGraphic.addChild(this.buttonText);
+    }
+
+
+}

diff --git a/index.html b/index.html
@@ -3,11 +3,25 @@
 <head>
     <meta charset="UTF-8">
     <meta http-equiv="X-UA-Compatible" content="IE=edge">
+    <style>
+        body{
+            margin: 0;
+            padding: 0;
+            background-color: #000000;
+        }
+    </style>
     <meta name="viewport" content="width=device-width, initial-scale=1.0">
     <title>Produce Shinobi</title>
-    <script src="build/scripts.js"></script>
+    
 </head>
 <body>
-    
+    <!--script src="build/scripts.js"></script-->
+    <script src="js/pixi.min.js"></script>
+    <script src="js/tweenjs.min.js"></script>
+    <script src="js/init.js"></script>
+    <script src="js/textInit.js"></script>
+    <script src="js/menu.js"></script>
+    <script src="js/fruit.js"></script>
+    <script src="js/gameScene.js"></script>
 </body>
 </html>
